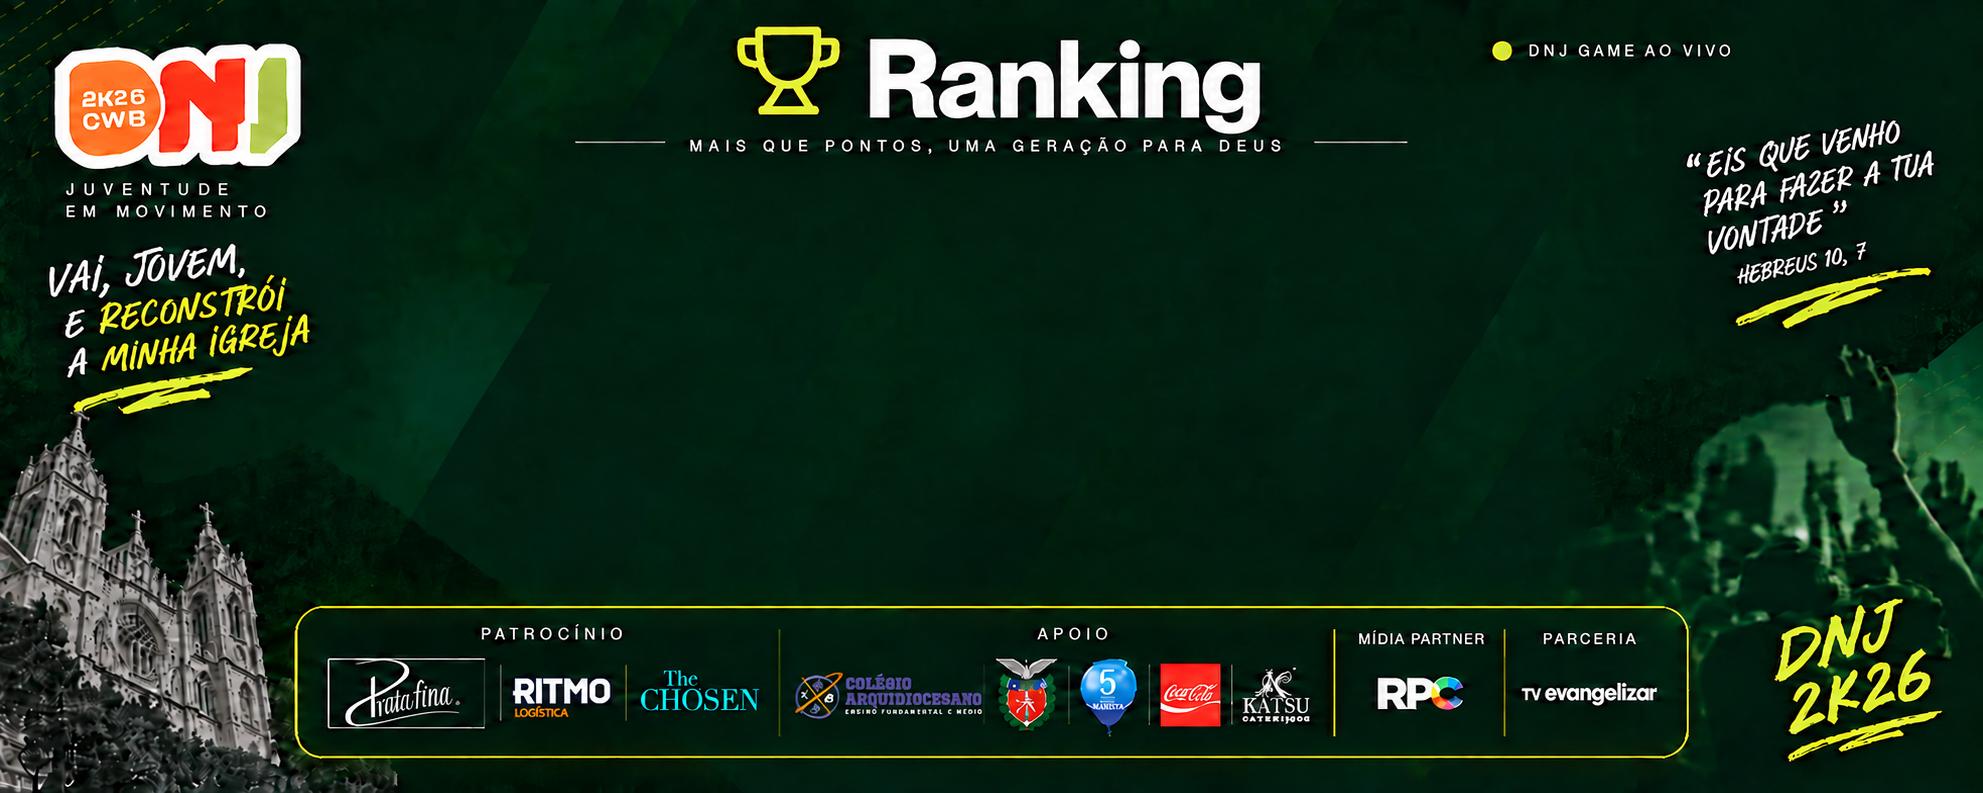
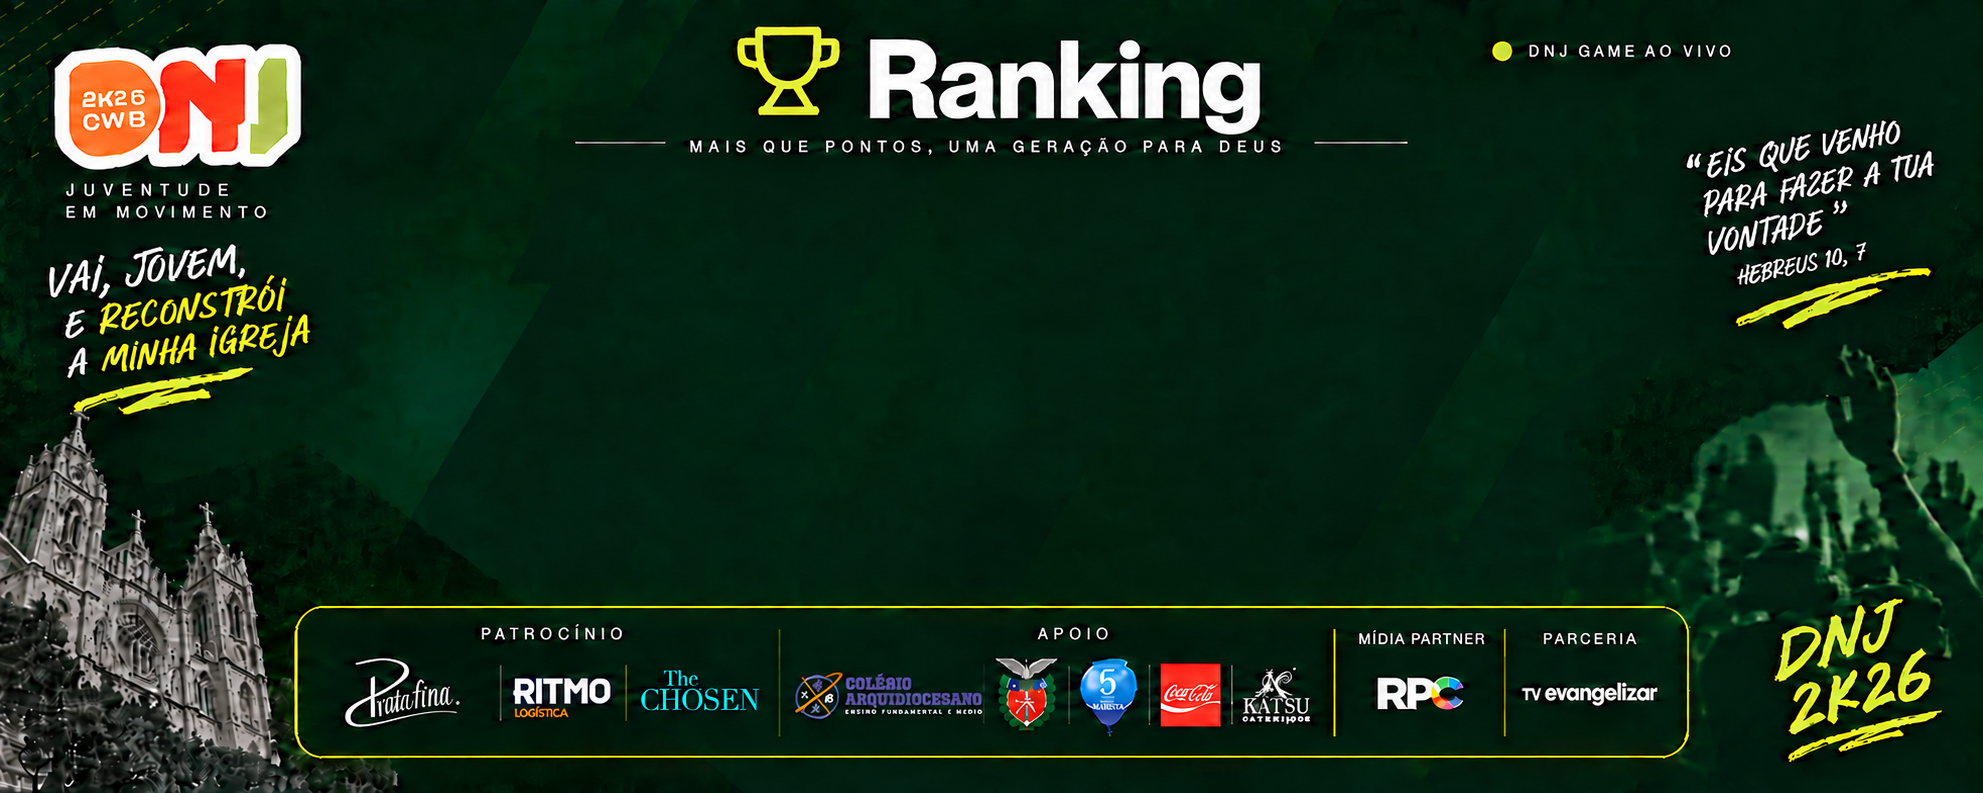
feat(telao): aplica layout lateral do ranking

diff --git a/src/features/display/live-ranking-display.tsx b/src/features/display/live-ranking-display.tsx
@@ -295,17 +295,36 @@ function BackdropRanking({ entries, board, clock }: { entries: RankingEntry[]; b
 }
 
 function SideRanking({ entries, board, clock }: { entries: RankingEntry[]; board: "individual" | "groups"; clock: string }) {
+  const places = [entries[1], entries[0], entries[2]];
+  const tones = ["#d9e0e2", "#f3f51b", "#ff9656"];
+
   return <>
-    <time className="absolute right-[7%] top-[3.8%] text-[2.25vw] font-black tabular-nums text-white">{clock}</time>
-    <section aria-label="Pódio" className="absolute inset-x-[14%] top-[53%] space-y-[1.2vw]">
-      {entries.slice(0, 3).map((entry, index) => {
-        const tone = ["#f3f51b", "#d9e0e2", "#ff9656"][index];
-        return <article key={entry.id} className="flex h-[9vw] items-center rounded-[1.6vw] border-[.14vw] px-[1.45vw]" style={{ borderColor: tone, background: index === 0 ? "linear-gradient(100deg,#4f5717e6,#09241de6)" : "#09241de6" }}>
-          <span className="flex h-[4.6vw] w-[4.6vw] shrink-0 items-center justify-center rounded-full border-[.13vw] text-[2vw] font-black" style={{ borderColor: tone, color: tone }}>{index + 1}º</span>
-          <span className="ml-[1.2vw] flex h-[4.2vw] w-[4.2vw] shrink-0 items-center justify-center rounded-full border-[.14vw] bg-[#173a2f]" style={{ borderColor: tone }}><Medal size="52%" color={tone} /></span>
-          <div className="ml-[1.3vw] min-w-0"><h2 className="truncate text-[1.65vw] font-bold text-white">{entry.name}</h2><p className="mt-[.25vw] truncate text-[.75vw] font-semibold uppercase tracking-[.15em] text-white/70">{board === "individual" ? entry.group : `${entry.members ?? 0} participantes`}</p></div>
-          <strong className="ml-auto text-[3.15vw] font-black tabular-nums" style={{ color: tone }}>{entry.points}<small className="ml-[.4vw] text-[.9vw] text-white">PTS</small></strong>
-        </article>;
+    <time className="absolute z-10 text-right font-black tabular-nums text-white" style={{ right: "5.4%", top: "3.35%", fontSize: "2.25cqw", backgroundColor: "#00271c", padding: ".45cqw .5cqw" }}>{clock}</time>
+    <section aria-label="Pódio" className="absolute inset-x-0" style={{ top: "32.5%", height: "21.8%" }}>
+      {places.map((entry, index) => {
+        const center = index === 1;
+        const tone = tones[index];
+        const left = [7.3, 34.8, 65.8][index];
+        const width = center ? 30.5 : 26.3;
+        return (
+          <article
+            key={entry?.id ?? `empty-${index}`}
+            className="absolute text-center"
+            style={{ left: `${left}%`, top: center ? "0" : "7%", width: `${width}%`, height: center ? "100%" : "82%", border: ".16cqw solid", borderRadius: "1.7cqw", padding: "2cqw 1.15cqw 0", borderColor: tone, background: center ? "linear-gradient(145deg,#534f12,#062219)" : "linear-gradient(145deg,#1c392e,#062219)", boxShadow: center ? "0 0 22px #f3f51b88" : undefined }}
+          >
+            {center ? <Crown aria-hidden className="absolute fill-[#f3f51b]/20 text-[#f3f51b]" style={{ left: "50%", transform: "translateX(-50%)", top: "-2.6cqw", height: "3.5cqw", width: "3.5cqw" }} strokeWidth={2.2} /> : null}
+            <span className="absolute flex items-center justify-center rounded-full font-black text-black" style={{ right: "7%", top: "7%", height: "3.3cqw", width: "3.3cqw", fontSize: "1.65cqw", background: tone }}>{index === 0 ? "2º" : center ? "1º" : "3º"}</span>
+            <span className="absolute flex items-center justify-center overflow-hidden rounded-full bg-[#19372e]" style={{ left: "50%", top: "10%", transform: "translateX(-50%)", width: center ? "47%" : "50%", aspectRatio: "1 / 1", border: "2px solid", borderColor: tone, boxShadow: `0 0 12px ${tone}77` }}>
+              {entry?.avatarUrl ? <img src={entry.avatarUrl} alt={`Foto de ${entry.name}`} className="h-full w-full object-cover" /> : entry ? <span className="font-black" style={{ fontSize: center ? "3.3cqw" : "2.8cqw", color: tone }}>{initials(entry.name)}</span> : <span aria-hidden />}
+            </span>
+            <h2 className="absolute left-[7%] right-[7%] truncate font-bold leading-tight text-white" style={{ top: center ? "59%" : "58%", fontSize: center ? "2.2cqw" : "1.85cqw" }}>{entry?.name}</h2>
+            <div className="absolute inset-x-0" style={{ top: center ? "72%" : "71%" }}>
+              <strong className="font-black leading-none tabular-nums" style={{ fontSize: center ? "5cqw" : "4.25cqw", color: center ? "#f3f51b" : "white" }}>{entry?.points}</strong>
+              <small className="ml-[.45cqw] font-bold text-white" style={{ fontSize: "1.5cqw" }}>PTS</small>
+            </div>
+            {center && entry ? <p className="absolute inset-x-[7%] font-bold uppercase tracking-[.15em] text-white/80" style={{ top: "90%", fontSize: ".7cqw" }}>{board === "individual" ? entry.group : `${entry.members ?? 0} participantes`}</p> : null}
+          </article>
+        );
       })}
     </section>
   </>;
@@ -399,14 +418,14 @@ export function LiveRankingDisplay({
     <main
       className={`relative overflow-hidden bg-[#031c16] text-white ${
         format === "side"
-          ? "mx-auto min-h-screen max-w-[1440px] px-8 py-10 md:px-14"
+          ? "mx-auto"
           : isBackdrop
             ? "mx-auto"
             : "min-h-screen px-8 py-10 md:px-14"
       }`}
       style={{
-        ...(format === "side" ? { aspectRatio: "3 / 4" } : isBackdrop ? { aspectRatio: "5 / 2", width: "min(100vw, 250vh)" } : {}),
-        backgroundImage: `url(${isBackdrop ? "/telao-horizontal-ranking-live-v3.png" : format === "side" ? "/telao-vertical-base.png" : "/telao-vertical-reference.png"})`,
+        ...(format === "side" ? { aspectRatio: "3 / 4", width: "min(100vw, 75vh)", containerType: "inline-size", fontSize: "1cqw" } : isBackdrop ? { aspectRatio: "5 / 2", width: "min(100vw, 250vh)" } : {}),
+        backgroundImage: `url(${isBackdrop ? "/telao-horizontal-ranking-live-v3.png" : format === "side" ? "/telao-vertical-ranking-live-v2.png" : "/telao-vertical-reference.png"})`,
         backgroundPosition: "center",
         backgroundSize: "100% 100%",
         backgroundRepeat: "no-repeat",
